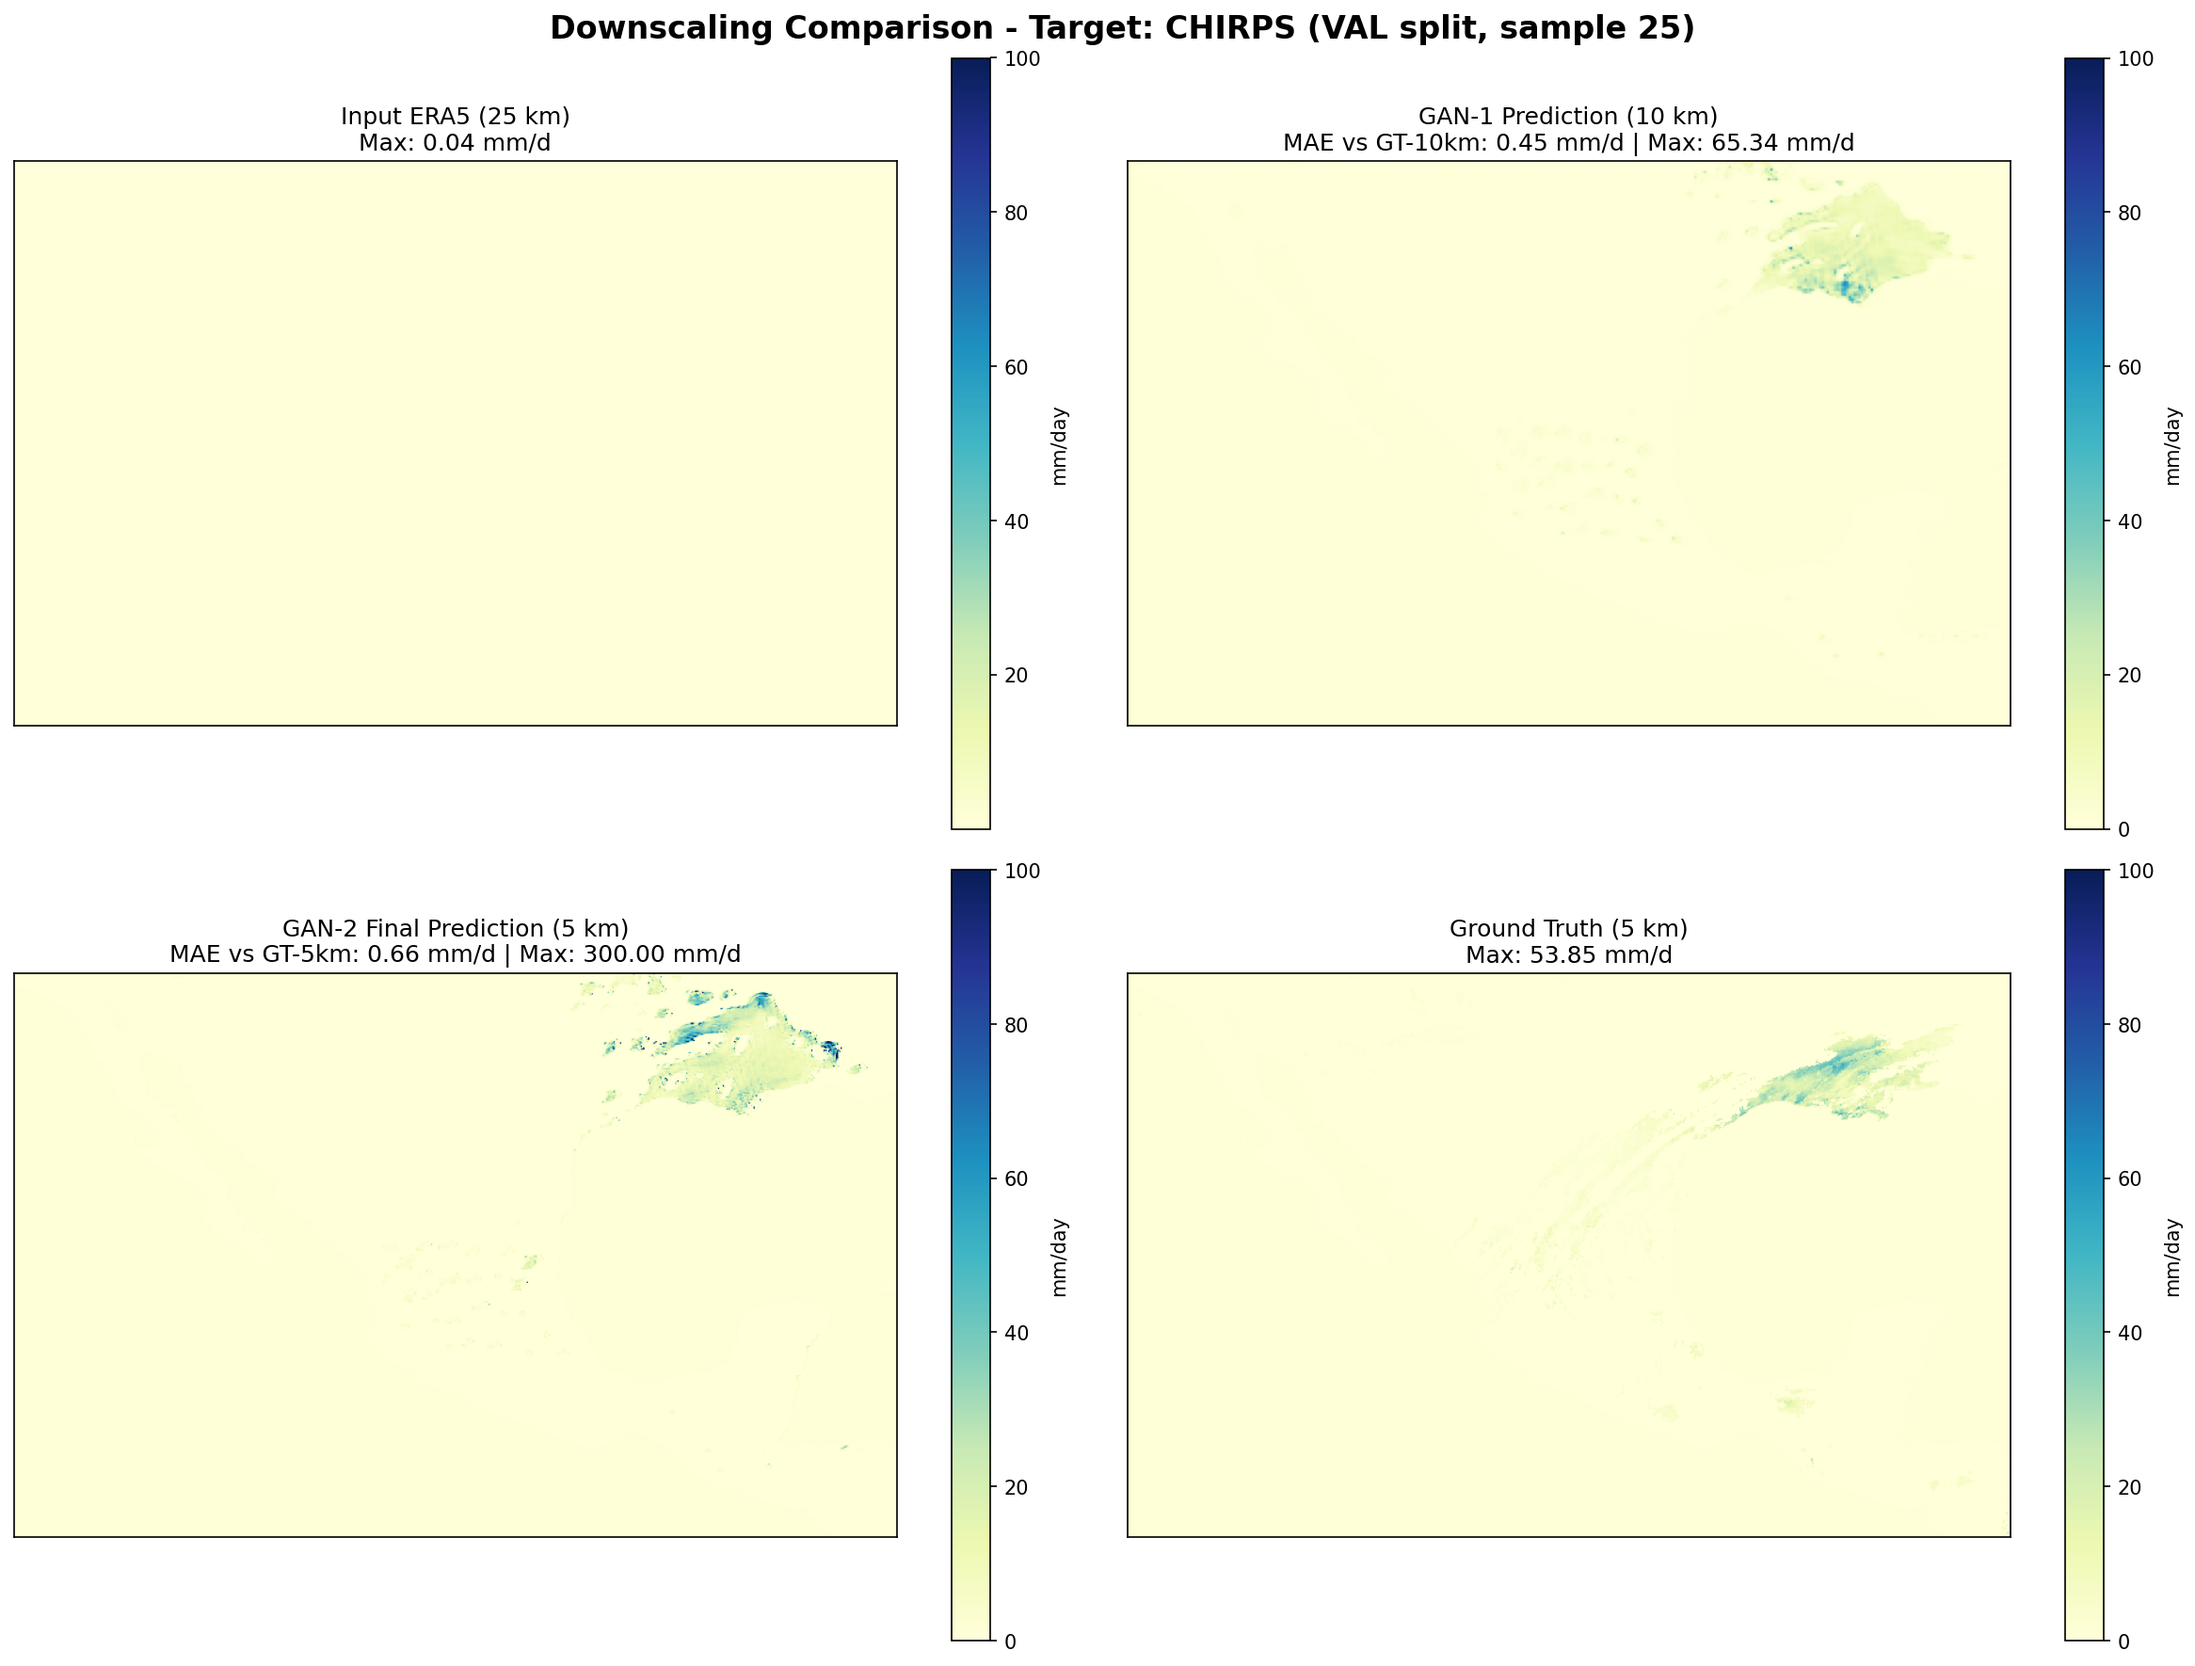
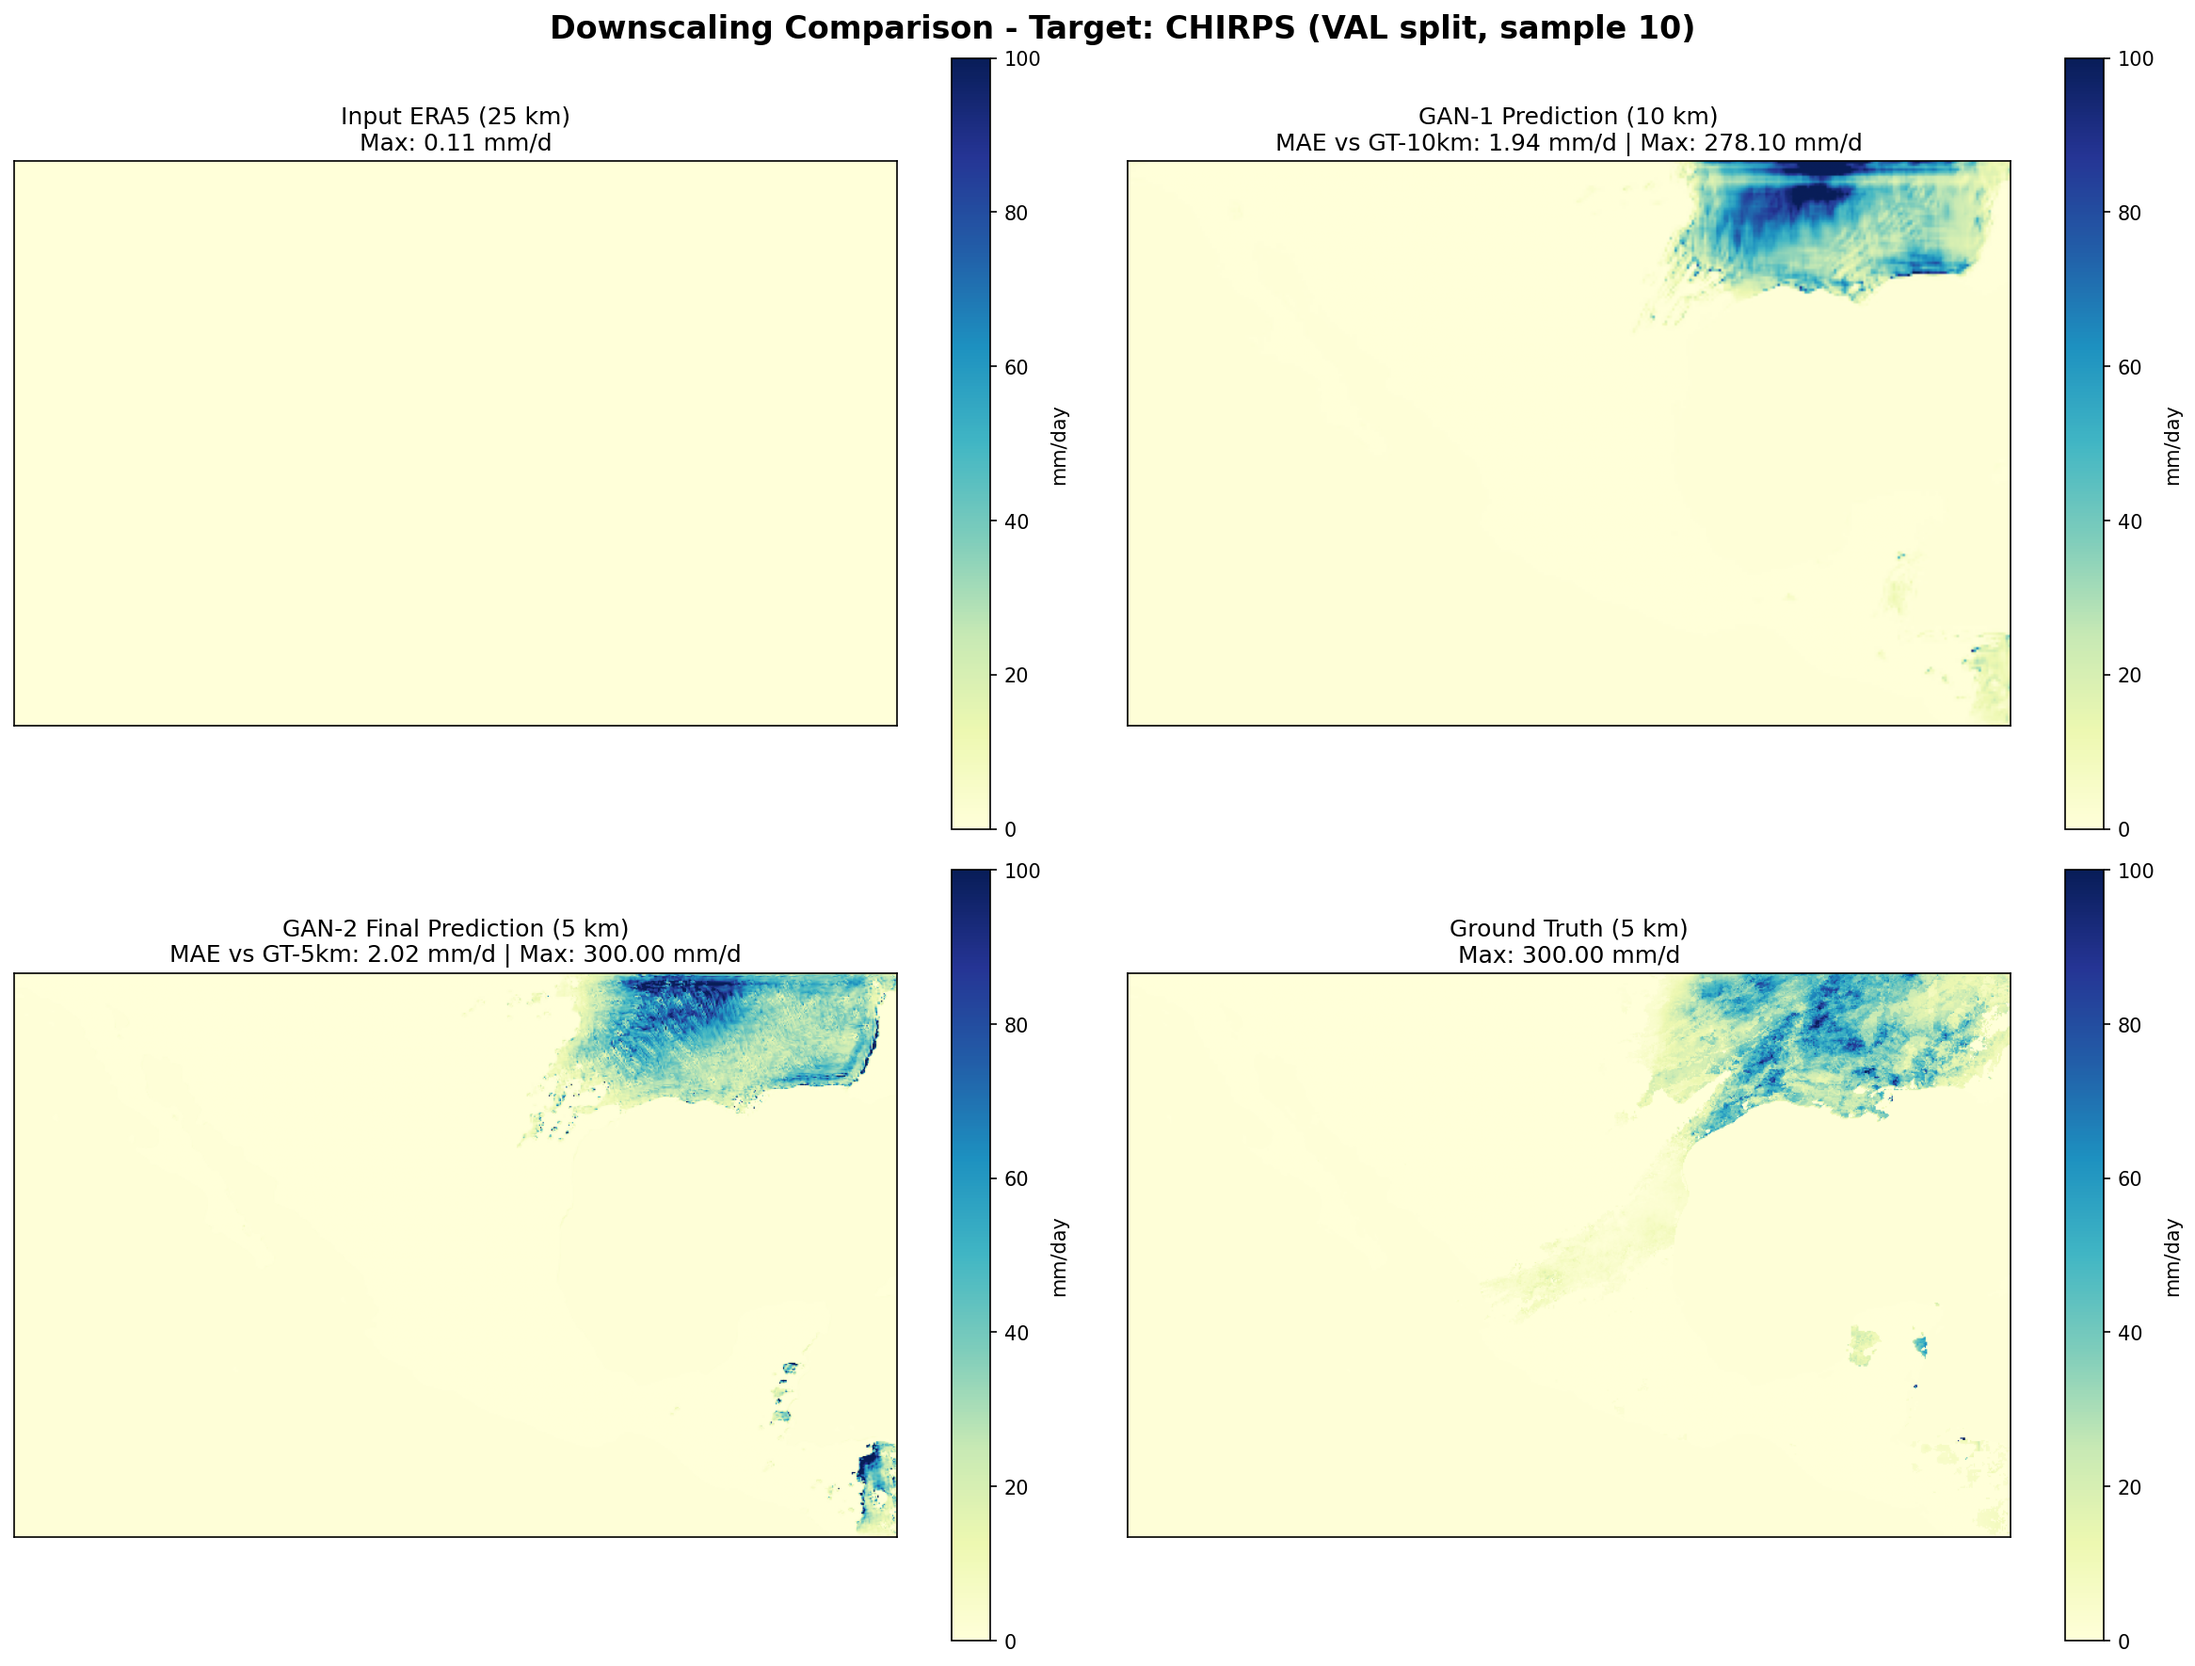
feat: add land mask utility, implement GAN output clamping, refine stochastic noise scaling, and update data extraction tooling.

diff --git a/src/training/bias_correction.py b/src/training/bias_correction.py
@@ -13,8 +13,10 @@ from scipy.stats import genpareto
 class PrecipBiasCorrector:
     """Performs deterministic bias correction and stochastic noise generation."""
 
-    def __init__(self, num_quantiles=1000):
+    def __init__(self, num_quantiles=1000, noise_std=2.0):
         self.num_quantiles = num_quantiles
+        # Controls the physical amplitude of stochastic noise perturbations (mm/day)
+        self.noise_std = noise_std
         self.quantiles = np.linspace(0.0, 100.0, num_quantiles)
         
         # Parameters to fit
@@ -123,22 +125,28 @@ class PrecipBiasCorrector:
         if is_batched:
             N, H, W = pred.shape
             ensemble = np.zeros((N, num_members, H, W))
+            # Normalize spatial filter to unit std to prevent amplitude explosion
+            norm_filter = self.spatial_filter / (np.std(self.spatial_filter) + 1e-8)
             for i in range(N):
                 det = self.apply_deterministic(pred[i])
                 # Vectorized generation of spatially correlated Gaussian noise
                 white_noise = np.random.normal(size=(num_members, H, W))
                 fft_noise = np.fft.fft2(white_noise, axes=(-2, -1))
-                corr_noise = np.fft.ifft2(fft_noise * self.spatial_filter[np.newaxis, :, :], axes=(-2, -1)).real
-                ensemble[i] = np.clip(det[np.newaxis, :, :] + corr_noise, 0.0, 300.0)
+                corr_noise = np.fft.ifft2(fft_noise * norm_filter[np.newaxis, :, :], axes=(-2, -1)).real
+                # Scale by noise_std to produce physically meaningful perturbations
+                ensemble[i] = np.clip(det[np.newaxis, :, :] + self.noise_std * corr_noise, 0.0, 300.0)
             return ensemble
         else:
             H, W = pred.shape
             det = self.apply_deterministic(pred)
+            # Normalize spatial filter to unit std to prevent amplitude explosion
+            norm_filter = self.spatial_filter / (np.std(self.spatial_filter) + 1e-8)
             # Vectorized generation of spatially correlated Gaussian noise
             white_noise = np.random.normal(size=(num_members, H, W))
             fft_noise = np.fft.fft2(white_noise, axes=(-2, -1))
-            corr_noise = np.fft.ifft2(fft_noise * self.spatial_filter[np.newaxis, :, :], axes=(-2, -1)).real
-            ensemble = np.clip(det[np.newaxis, :, :] + corr_noise, 0.0, 300.0)
+            corr_noise = np.fft.ifft2(fft_noise * norm_filter[np.newaxis, :, :], axes=(-2, -1)).real
+            # Scale by noise_std to produce physically meaningful perturbations
+            ensemble = np.clip(det[np.newaxis, :, :] + self.noise_std * corr_noise, 0.0, 300.0)
             return ensemble
 
     def save(self, file_path):

diff --git a/src/utils/land_mask.py b/src/utils/land_mask.py
@@ -1,0 +1,64 @@
+"""Land mask utility for the Mexico precipitation downscaling domain.
+
+Generates a binary land mask (1=land, 0=ocean/water) from NASADEM elevation data
+for the Mexico domain at 5km (0.05 deg) resolution: 460 rows x 720 columns.
+
+The mask is cached in memory after the first call to avoid repeated I/O.
+"""
+
+import os
+import numpy as np
+
+_MASK_CACHE = None
+
+
+def get_land_mask(device=None):
+    """Returns a (1, 1, 460, 720) float32 tensor: 1.0 = land, 0.0 = ocean.
+
+    Derived from NASADEM elevation: pixels with elevation > -100m are treated
+    as land (this threshold retains below-sea-level land like coastal deltas
+    while masking open ocean).
+
+    Falls back to an all-ones mask (no masking) if NASADEM is not available.
+
+    Args:
+        device (torch.device, optional): Device to move the tensor to.
+
+    Returns:
+        torch.Tensor: Shape (1, 1, 460, 720), dtype float32.
+    """
+    global _MASK_CACHE
+    if _MASK_CACHE is not None:
+        return _MASK_CACHE.to(device) if device is not None else _MASK_CACHE
+
+    import sys
+    import torch
+    sys.path.append(os.path.abspath(os.path.join(os.path.dirname(__file__), '..', '..')))
+
+    from src.utils.config import Config
+
+    dem_path = os.path.join(Config.RAW_DATA_DIR, "dem", "nasadem_mexico_1km.tif")
+
+    if os.path.exists(dem_path):
+        try:
+            from src.data_preprocessing.physics_models import resample_dem
+            elevation = resample_dem(dem_path, output_height=460, output_width=720)
+            # Land = elevation > -100m (retains coastal lowlands, masks open ocean)
+            mask = (elevation > -100.0).astype(np.float32)
+        except Exception as e:
+            import logging
+            logging.getLogger("PrecipitationPipeline").warning(
+                f"Failed to build land mask from NASADEM: {e}. Falling back to all-ones mask."
+            )
+            mask = np.ones((460, 720), dtype=np.float32)
+    else:
+        import logging
+        logging.getLogger("PrecipitationPipeline").warning(
+            f"NASADEM not found at {dem_path}. Using all-ones land mask (no ocean masking)."
+        )
+        mask = np.ones((460, 720), dtype=np.float32)
+
+    # Shape: (1, 1, 460, 720) for broadcasting against (B, 1, H, W) model outputs
+    _MASK_CACHE = torch.tensor(mask, dtype=torch.float32).unsqueeze(0).unsqueeze(0)
+
+    return _MASK_CACHE.to(device) if device is not None else _MASK_CACHE

diff --git a/src/data_extraction/gee_extractor.py b/src/data_extraction/gee_extractor.py
@@ -317,8 +317,16 @@ def export_oya(year, month, drive_folder):
         d_end = d_start.advance(1, 'day')
         daily_imgs = oya.filterDate(d_start, d_end)
         
-        # mm/hr × 0.5hr per image = mm per 30-min slot; sum gives mm/day
-        daily_oya = daily_imgs.sum().multiply(0.5)
+        # Count valid (non-masked) slots per pixel
+        slot_count = daily_imgs.count()
+        
+        # Use masked mean over valid slots, then scale to mm/day
+        # mean mm/hr × 24 hr/day = mm/day (avoids scan-line zeros from fill values)
+        daily_mean_mmhr = daily_imgs.mean()
+        daily_oya = daily_mean_mmhr.multiply(24.0)
+        
+        # Mask pixels where fewer than 30 out of 48 slots were valid (data gaps)
+        daily_oya = daily_oya.updateMask(slot_count.gte(30))
         return daily_oya.set('system:time_start', d_start.millis())
         
     days_in_month = (datetime.strptime(end_date, "%Y-%m-%d") - datetime.strptime(start_date, "%Y-%m-%d")).days

diff --git a/src/models/rrdb_gan.py b/src/models/rrdb_gan.py
@@ -86,7 +86,10 @@ class GeneratorGAN1(nn.Module):
         
         out = self.lrelu(self.conv_hr(out))
         out = self.conv_last(out)
-        return out
+        # Clamp output in normalized space to prevent hallucinations.
+        # ±5 corresponds to ~5 standard deviations above/below the training mean,
+        # which is well beyond any physically possible precipitation value.
+        return torch.clamp(out, min=-5.0, max=5.0)
 
 class GeneratorGAN2(nn.Module):
     """GAN-2 Generator (Intermediate 10km -> High-res 5km)."""
@@ -126,7 +129,8 @@ class GeneratorGAN2(nn.Module):
         
         out = self.lrelu(self.conv_hr(out))
         out = self.conv_last(out)
-        return out
+        # Clamp output in normalized space to prevent hallucinations.
+        return torch.clamp(out, min=-5.0, max=5.0)
 
 class PatchGANDiscriminator(nn.Module):
     """Fully convolutional PatchGAN discriminator (Markovian discriminator)."""

diff --git a/src/data_extraction/npz_converter.py b/src/data_extraction/npz_converter.py
@@ -65,6 +65,11 @@ def process_date(date_str, target_name, era5_path, era5_pl_path, target_path, pr
     try:
         with rasterio.open(target_path) as tgt_src:
             target_data = tgt_src.read(1)
+            # For Oya targets, apply a spatial median filter to suppress scan-line artifacts
+            # that can arise from missing 30-min slots during daily aggregation
+            if target_name == 'oya':
+                from scipy.ndimage import median_filter
+                target_data = median_filter(target_data, size=3)
             # Expand dims to (H, W, 1) as requested by architecture
             target_data = np.expand_dims(target_data, axis=-1)
             tgt_profile = tgt_src.profile
